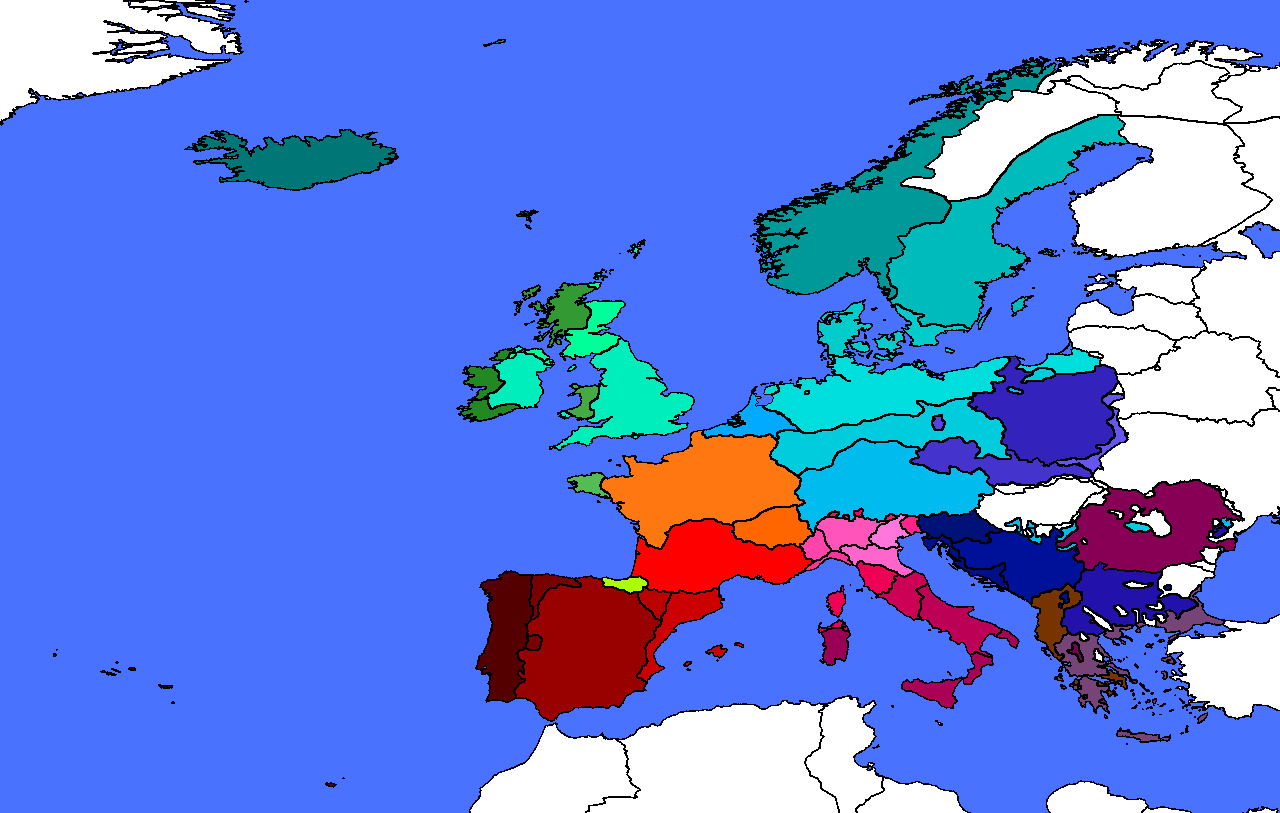
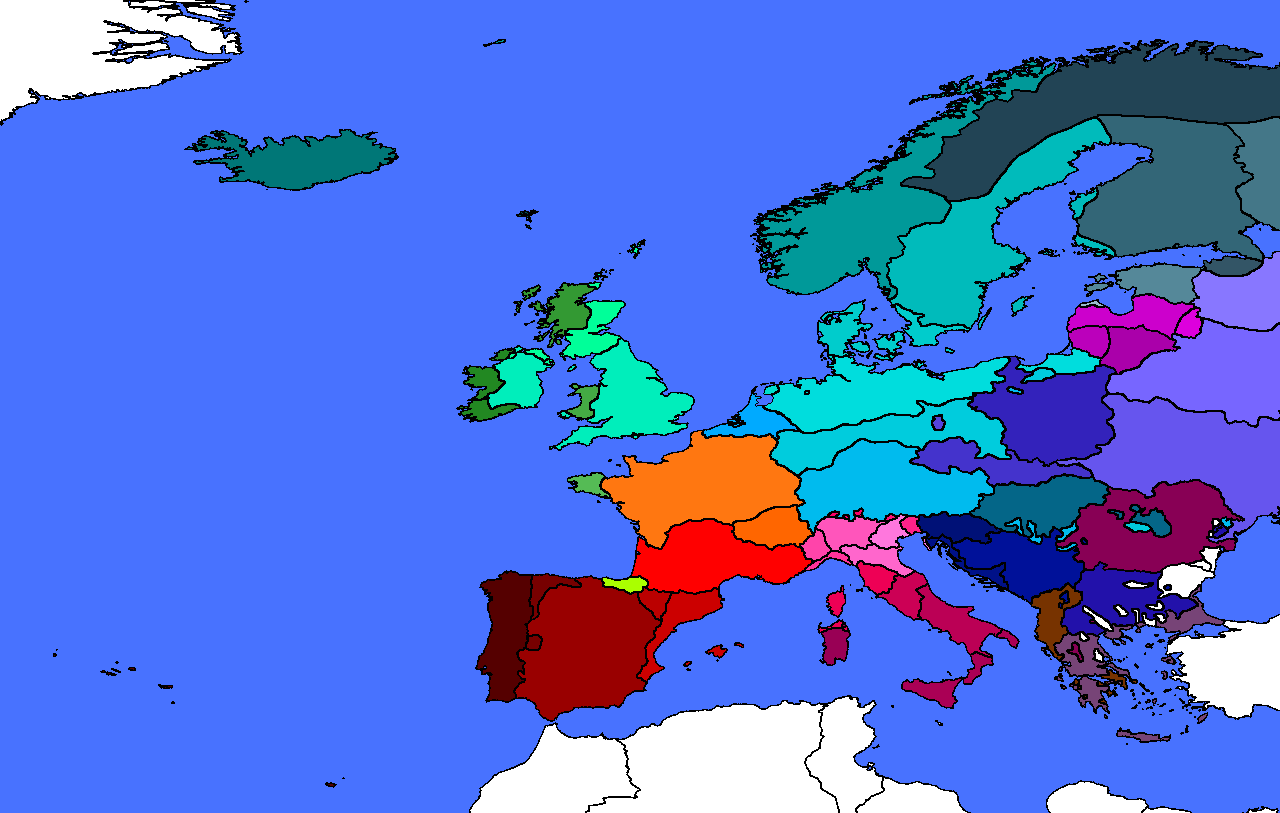
Update language hover points and add new languages to the map

Changed region(s): [[0.6875, 0.0615, 1.0, 0.6765]]

diff --git a/europe.html b/europe.html
@@ -64,10 +64,23 @@
     <div class="hover-point" style="left:1108px; top:588px; background:#21a" title="Bulgarian"></div>
     <div class="hover-point" style="left:1043px; top:616px; background:#773300" title="Albanian"></div>
     <div class="hover-point" style="left:1140px; top:545px; background:#880055" title="Romanian"></div>
-    <div class="hover-point" style="left:1086px; top:615px; background:#660055" title="Meglenetic"></div>
     <div class="hover-point" style="left:1080px; top:668px; background:#774477" title="Greek"></div>
-    <div class="hover-point" style="left:1070px; top:645px; background:#770055" title="Aromanian"></div>
     <div class="hover-point" style="left:625px; top:578px; background:#af0" title="Basque"></div>
+    <div class="hover-point" style="left:1090px; top:87px; background:#224455" title="Sámi"></div>
+    <div class="hover-point" style="left:1161px; top:195px; background:#336677" title="Finnish"></div>
+    <div class="hover-point" style="left:1262px; top:164px; background:#447788" title="Karelian"></div>
+    <div class="hover-point" style="left:1226px; top:260px; background:#335566" title="Ingrian"></div>
+    <div class="hover-point" style="left:1155px; top:277px; background:#558899" title="Estonian"></div>
+    <div class="hover-point" style="left:1087px; top:297px; background:#99bbcc" title="Livonian"></div>
+    <div class="hover-point" style="left:1198px; top:446px; background:#6655ee" title="Ukrainian"></div>
+    <div class="hover-point" style="left:1222px; top:365px; background:#7766ff" title="Belarusian"></div>
+    <div class="hover-point" style="left:1230px; top:300px; background:#8877ff" title="Russian"></div>
+    <div class="hover-point" style="left:1123px; top:340px; background:#aa00aa" title="Aukštatian"></div>
+    <div class="hover-point" style="left:1182px; top:320px; background:#dd00dd" title="Latgalian"></div>
+    <div class="hover-point" style="left:1084px; top:333px; background:#bb00bb" title="Samogitian"></div>
+    <div class="hover-point" style="left:1142px; top:308px; background:#cc00cc" title="Latvian"></div>
+    <div class="hover-point" style="left:1031px; top:498px; background:#446688" title="Hungarian"></div>
+    
   </div>
 </body>
 </html>

diff --git a/languages.md b/languages.md
@@ -21,8 +21,6 @@ Neapolitan	#bb0055
 Sicilian	#aa0055
 Sardinian	#990055
 Romanian	#880055
-Aromanian	#770055
-Meglenetic	#660055
 Faroese	#005555
 Icelandic	#007777
 Norwegian	#009999
@@ -49,6 +47,10 @@ Sorbian	#5544dd
 Ukrainian	#6655ee
 Belarusian	#7766ff
 Russian	#8877ff
+Aukštatian	#aa00aa
+Samogitian	#bb00bb
+Latvian	#cc00cc
+Latgalian	#dd00dd
 Western Caspian	#665500
 Eastern Caspian	#887700
 Kurmanji–Sorani	#ccaa55
@@ -69,3 +71,19 @@ Greek	#774477
 Albanian	#773300
 Basque	#aaff00
 Armenian	#882200
+Finnish	#336677
+Karelian	#447788
+Ingrian	#335566
+Estonian	#558899
+Livonian	#99bbcc
+Sámi	#224455
+Mari	#445566
+Mordvin	#556677
+Komi	#667788
+Udmurt	#778899
+Hungarian	#446688
+Khanty	#334455
+Mansi	#223344
+Nenets	#aaccee
+Selkup	#99aabb
+Nganasan	#8899aa
